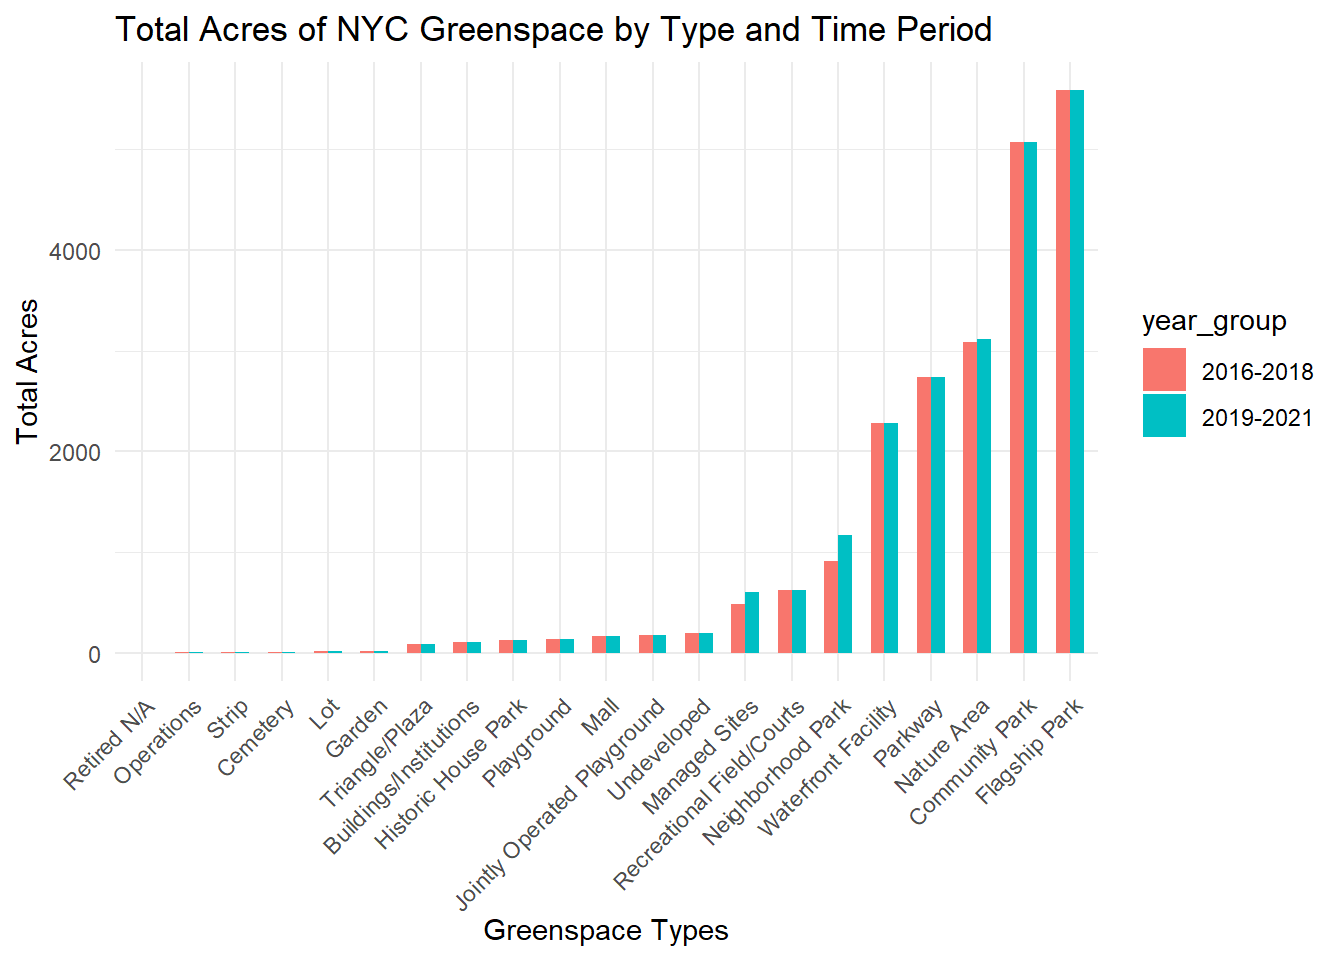
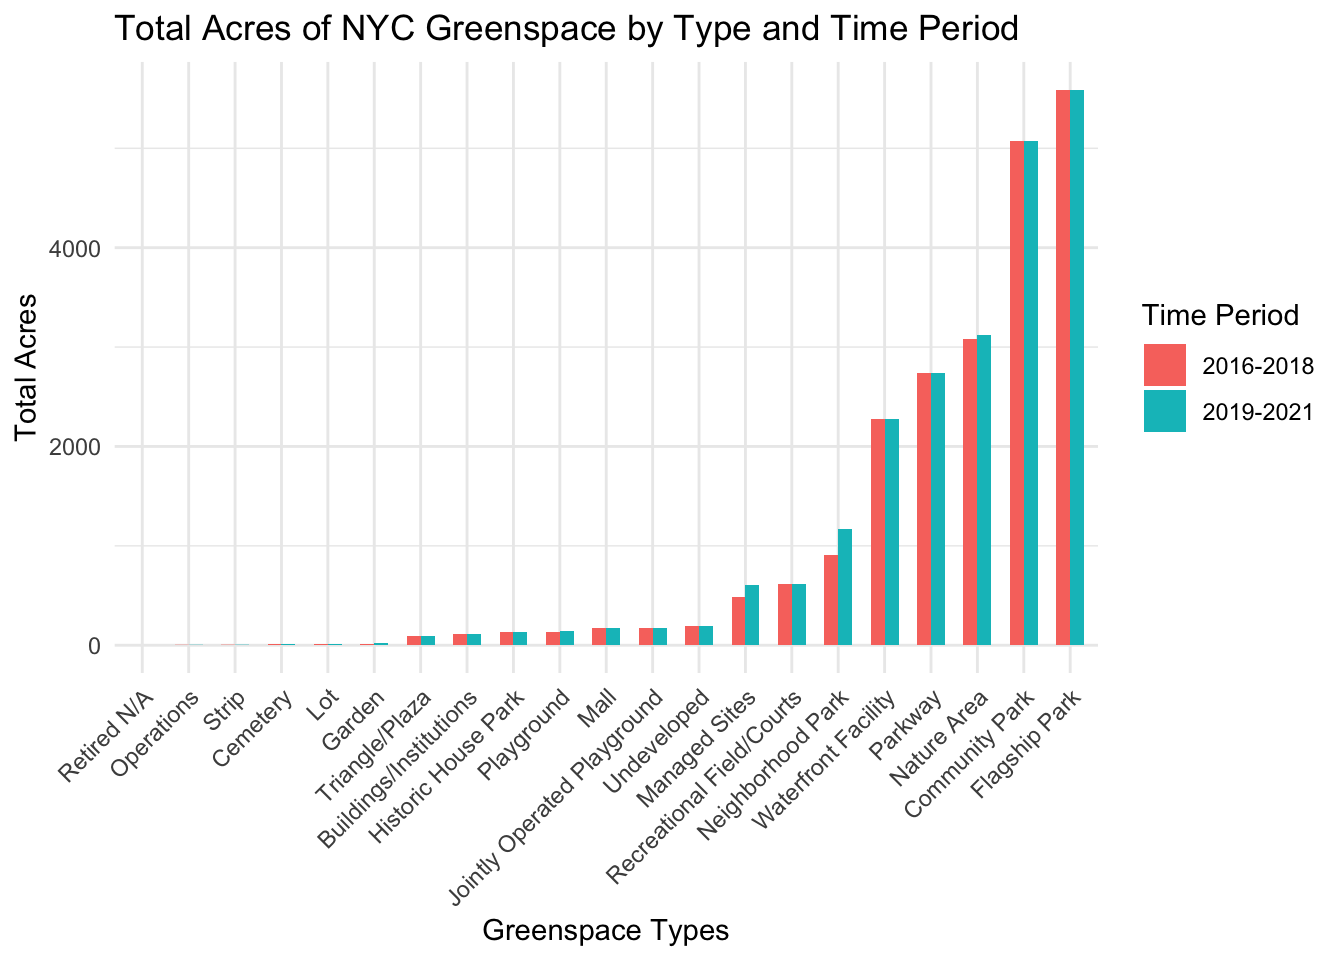
Fix plots for consistency

diff --git a/exploratory_data_analysis.html b/exploratory_data_analysis.html
@@ -14,7 +14,7 @@
 
 <title>exploratory_data_analysis.knit</title>
 
-<script src="site_libs/header-attrs-2.29/header-attrs.js"></script>
+<script src="site_libs/header-attrs-2.28/header-attrs.js"></script>
 <script src="site_libs/jquery-3.6.0/jquery-3.6.0.min.js"></script>
 <meta name="viewport" content="width=device-width, initial-scale=1" />
 <link href="site_libs/bootstrap-3.3.5/css/flatly.min.css" rel="stylesheet" />
@@ -37,8 +37,8 @@
 <script src="site_libs/navigation-1.1/codefolding.js"></script>
 <link href="site_libs/highlightjs-9.12.0/default.css" rel="stylesheet" />
 <script src="site_libs/highlightjs-9.12.0/highlight.js"></script>
-<link href="site_libs/font-awesome-6.5.2/css/all.min.css" rel="stylesheet" />
-<link href="site_libs/font-awesome-6.5.2/css/v4-shims.min.css" rel="stylesheet" />
+<link href="site_libs/font-awesome-6.4.2/css/all.min.css" rel="stylesheet" />
+<link href="site_libs/font-awesome-6.4.2/css/v4-shims.min.css" rel="stylesheet" />
 
 <style type="text/css">
   code{white-space: pre-wrap;}
@@ -900,7 +900,7 @@ Greenspace_data = total_acres |&gt;
 
 ggplot(total_acres, aes(x = reorder(borough, acres_sum), y = acres_sum, fill = year_group)) + 
   geom_bar(stat = &quot;identity&quot;, position = &quot;dodge&quot;, alpha = 0.7) + 
-  labs(x = &quot;Borough&quot;, y = &quot;Greenspace (Total Acres)&quot;, title = &quot;Greenspaces Across Borough by Time Period&quot;) +
+  labs(x = &quot;Borough&quot;, y = &quot;Greenspace (Total Acres)&quot;, title = &quot;Greenspaces Across Borough by Time Period&quot;, fill = &quot;Time Period&quot;) +
   theme_minimal()</code></pre>
 <p><img src="exploratory_data_analysis_files/figure-html/unnamed-chunk-12-1.png" width="672" /></p>
 <p>Analysis of greenspace distribution across NYC boroughs shows
@@ -1023,7 +1023,7 @@ binded |&gt;
       &quot;year2&quot; ~ &quot;2019-2021&quot;)) |&gt;
   ggplot(aes(x = reorder(typecategory, acres_total), y = acres_total, fill = year_group)) + 
   geom_bar(stat = &quot;identity&quot;, position = &quot;dodge&quot;, width = 0.6) +
-  labs(x = &quot;Greenspace Types&quot;, y = &quot;Total Acres&quot;, title = &quot;Total Acres of NYC Greenspace by Type and Time Period&quot;) +
+  labs(x = &quot;Greenspace Types&quot;, y = &quot;Total Acres&quot;, title = &quot;Total Acres of NYC Greenspace by Type and Time Period&quot;, fill = &quot;Time Period&quot;) +
     theme_minimal() +
   theme(axis.text.x = element_text(angle = 45, vjust = 1, hjust = 1))</code></pre>
 <p><img src="exploratory_data_analysis_files/figure-html/unnamed-chunk-14-1.png" width="672" /></p>
@@ -1391,9 +1391,11 @@ class="section level4">
 <h4>Average temperature by time period and borough</h4>
 <pre class="r"><code># Plot for average temperature by year group and borough
 
-ggplot(data = all_temp_borough, aes(x = data_years, y = avg_temperature, color = borough)) +
+all_temp_borough |&gt;
+  rename(Borough = borough) |&gt;
+ggplot(aes(x = data_years, y = avg_temperature, color = Borough)) +
   geom_point(size = 3) +
-  geom_line(aes(group = borough), size = 1) +
+  geom_line(aes(group = Borough), size = 1) +
   labs(title = &quot;Average Temperature by Time Period and Borough&quot;,
        x = &quot;Time period&quot;,
        y = &quot;Average Temperature&quot;) +
@@ -1434,12 +1436,12 @@ daa = full_data2 |&gt;
   summarise(hvi_mean = mean(hvi))
 
 # Produce table
-knitr::kable(daa, digits = 3)</code></pre>
+knitr::kable(daa, digits = 3, col.names = c(&quot;Borough&quot;, &quot;Mean HVI&quot;))</code></pre>
 <table>
 <thead>
 <tr class="header">
-<th align="left">borough</th>
-<th align="right">hvi_mean</th>
+<th align="left">Borough</th>
+<th align="right">Mean HVI</th>
 </tr>
 </thead>
 <tbody>
